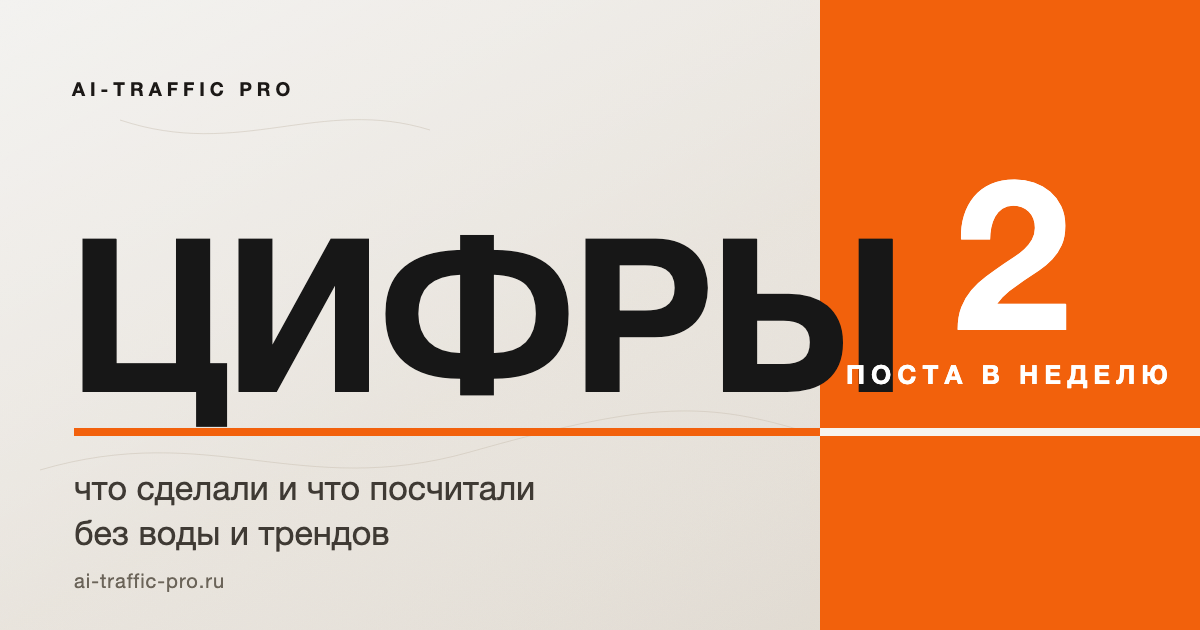
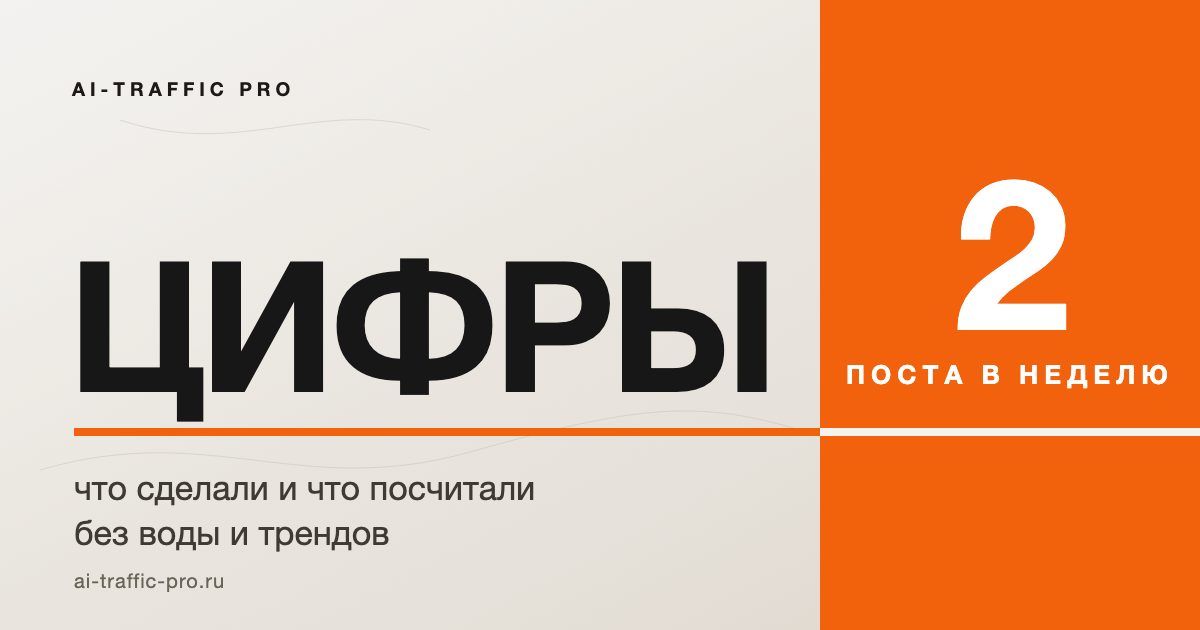
fix(covers): крупное слово не заходит на тераkотовый блок
Ширина считалась по числу букв (222px для пятибуквенного слова), а не по
фактической — «ЦИФРЫ» наезжали на оранжевую плашку.

- fit_word: кегль подбирается по измеренной ширине, правый край ≤ x=800
  при блоке с x=820; если не влезает — две строки, обе на бежевом поле
- строки описания и подпись в блоке тоже подгоняются по ширине
- cover.py --refit: пересборка всех <slug>-cover.svg с прежними текстами
- пересобраны все 11 обложек + intro; проверено пиксельно: тёмного в блоке 0
- правило записано в docs/design/covers.md

Changed region(s): [[0.0617, 0.3619, 0.7708, 0.6937]]

diff --git a/tools/publish/cover.py b/tools/publish/cover.py
@@ -16,11 +16,12 @@
 from __future__ import annotations
 
 import argparse
+import re
 import shutil
 import subprocess
 import sys
 from pathlib import Path
-from xml.sax.saxutils import escape
+from xml.sax.saxutils import escape, unescape
 
 ROOT = Path(__file__).resolve().parents[2]
 TEMPLATE = ROOT / "docs" / "design" / "cover-template.svg"
@@ -34,16 +35,115 @@ def size_for(text: str, *, base: int, step: int, minimum: int) -> int:
     return max(minimum, base - max(0, len(text) - 4) * step)
 
 
+# Границы полей обложки. Тераkотовый блок начинается на x=820, крупное слово
+# живёт на бежевом поле левее: правило от 20.11.2026 — текст на блок не заходит.
+FIELD_X = 820
+PAD_X = 68
+EDGE = 20
+MAX_TEXT_W = FIELD_X - EDGE - PAD_X
+WORD_BASELINE = 392
+WORD_TOP_MIN = 150
+TRACKING = -5
+
+# Чем мерим ширину. Chrome рисует Helvetica Neue; метрики Arial Bold близки,
+# плюс запас 4% — лучше чуть уменьшить кегль, чем наехать на блок.
+_MEASURE_FONTS = (
+    "/System/Library/Fonts/Supplemental/Arial Bold.ttf",
+    "/Library/Fonts/Arial Bold.ttf",
+    "/System/Library/Fonts/Supplemental/Arial.ttf",
+)
+
+
+def _metrics(size: int):
+    for path in _MEASURE_FONTS:
+        if Path(path).exists():
+            try:
+                from PIL import ImageFont
+
+                return ImageFont.truetype(path, size)
+            except Exception:
+                continue
+    return None
+
+
+def measure(text: str, size: int, tracking: int = TRACKING) -> int:
+    """Ширина строки в пикселях с учётом разрядки."""
+    if not text:
+        return 0
+    font = _metrics(size)
+    width = font.getlength(text) if font is not None else len(text) * size * 0.72
+    return round((width + tracking * (len(text) - 1)) * 1.04)
+
+
+def fit_word(word: str) -> tuple[list[str], int, int]:
+    """Кегль и разбивка крупного слова так, чтобы оно осталось на бежевом поле.
+
+    Сначала пробуем одну строку: на длинных словах кегль падает. Если и на
+    минимальном не влезает — режем на две строки, обе левее блока (правило
+    владельца: лучше две строки, чем слово поверх тераkотовой плашки).
+    Возвращает строки, кегль и базовую линию последней строки.
+    """
+    for size in range(240, 88, -2):
+        if measure(word, size) <= MAX_TEXT_W:
+            return [word], size, WORD_BASELINE
+
+    best: tuple[list[str], int] | None = None
+    for split in range(1, len(word)):
+        left, right = word[:split], word[split:]
+        for size in range(200, 56, -2):
+            if measure(left, size) <= MAX_TEXT_W and measure(right, size) <= MAX_TEXT_W:
+                if best is None or size > best[1]:
+                    best = ([left, right], size)
+                break
+
+    if best is None:
+        raise SystemExit(f"слово «{word}» не помещается на поле даже в две строки")
+
+    lines, size = best
+    y = WORD_BASELINE - round(size * 1.04)
+    if y < WORD_TOP_MIN:
+        raise SystemExit(f"слово «{word}»: две строки задевают вордмарк")
+    return lines, size, y
+
+
+def fit_line(text: str, *, base: int = 34, minimum: int = 22) -> int:
+    """Кегль строки описания: длинная строка уменьшается, а не лезет на блок."""
+    for size in range(base, minimum - 1, -1):
+        if measure(text, size, tracking=-1) <= MAX_TEXT_W:
+            return size
+    return minimum
+
+
 def build_svg(*, word: str, number: str, label: str, line1: str, line2: str) -> str:
     template = TEMPLATE.read_text(encoding="utf-8")
+
+    lines, word_size, word_y = fit_word(word)
+    if len(lines) == 1:
+        tsps = escape(lines[0])
+    else:
+        steps = "".join(
+            f'<tspan x="{PAD_X}" dy="{0 if index == 0 else "1.04em"}">{escape(line)}</tspan>'
+            for index, line in enumerate(lines)
+        )
+        tsps = steps
+
+    # Подпись в блоке тоже подгоняем: «ПОСТА В НЕДЕЛЮ» иначе вылезает за 380 px.
+    label_size = 26
+    while label_size > 16 and measure(label.upper(), label_size, tracking=6) > 340:
+        label_size -= 1
+
     values = {
-        "{{WORD}}": escape(word),
+        "{{WORD_TSPS}}": tsps,
         "{{NUMBER}}": escape(number),
         "{{LABEL}}": escape(label),
         "{{LINE1}}": escape(line1),
         "{{LINE2}}": escape(line2),
-        "{{WORD_SIZE}}": str(size_for(word, base=240, step=26, minimum=96)),
+        "{{WORD_SIZE}}": str(word_size),
+        "{{WORD_Y}}": str(word_y),
+        "{{LINE1_SIZE}}": str(fit_line(line1)),
+        "{{LINE2_SIZE}}": str(fit_line(line2)),
         "{{NUM_SIZE}}": str(size_for(number, base=210, step=30, minimum=96)),
+        "{{LABEL_SIZE}}": str(label_size),
     }
     for key, value in values.items():
         template = template.replace(key, value)
@@ -89,22 +189,89 @@ def dimensions(png_path: Path) -> tuple[int, int]:
     return width, height
 
 
+def extract_texts(svg: str) -> dict[str, str]:
+    """Достаёт тексты из уже готовой SVG: переверстать, не переписывая смысл.
+
+    Нужно для пересборки старых обложек после правки шаблона: тексты остаются
+    те же, меняются кегли и разбивка. Регулярки привязаны к цветам, а не к
+    координатам, — координаты как раз и меняются.
+    """
+    def one(pattern: str) -> str:
+        found = re.search(pattern, svg, re.S)
+        return unescape(found.group(1)) if found else ""
+
+    def many(pattern: str) -> list[str]:
+        return [unescape(match) for match in re.findall(pattern, svg, re.S)]
+
+    lines = many(r'fill="#3F3A34"[^>]*>([^<]*)</text>')
+    white = many(r'fill="#FFFFFF"[^>]*>([^<]*)</text>')
+    return {
+        "word": one(r'fill="#171717"[^>]*>([^<]*)</text>'),
+        "number": white[0] if white else "",
+        "label": white[1] if len(white) > 1 else "",
+        "line1": lines[0] if lines else "",
+        "line2": lines[1] if len(lines) > 1 else "",
+    }
+
+
+def refit_all(out_dir: Path, *, dry_run: bool = False) -> int:
+    """Пересобирает все `<slug>-cover.svg` в папке шаблоном с новой вёрсткой."""
+    files = sorted(out_dir.glob("*-cover.svg"))
+    if not files:
+        print(f"в {out_dir} нет обложек *-cover.svg", file=sys.stderr)
+        return 1
+
+    failures = 0
+    for svg_path in files:
+        texts = extract_texts(svg_path.read_text(encoding="utf-8"))
+        if not texts["word"]:
+            print(f"{svg_path.name}: не нашёл крупное слово", file=sys.stderr)
+            failures += 1
+            continue
+        try:
+            svg = build_svg(**texts)
+        except SystemExit as exc:
+            print(f"{svg_path.name}: {exc}", file=sys.stderr)
+            failures += 1
+            continue
+
+        lines, size, _ = fit_word(texts["word"])
+        head = "+".join(lines)
+        if dry_run:
+            print(f"{svg_path.name}: {head} {size}px, строк описания 2")
+            continue
+
+        png_path = svg_path.with_suffix(".png")
+        svg_path.write_text(svg, encoding="utf-8")
+        render(svg_path, png_path)
+        width, height = dimensions(png_path)
+        if (width, height) != (WIDTH, HEIGHT):
+            print(f"{png_path.name}: {width}x{height}", file=sys.stderr)
+            failures += 1
+            continue
+        print(f"{png_path.name}: {head} {size}px — готово")
+
+    return 1 if failures else 0
+
+
 def main(argv: list[str] | None = None) -> int:
     parser = argparse.ArgumentParser(
         description="Собрать обложку статьи 1200x630 (PNG) по общему шаблону.",
         epilog=(
             'пример: python3 tools/publish/cover.py --slug voronka-prodazh-kak-postroit '
             '--word ВОРОНКА --number 4 --label ЭТАПА --line1 "что считать воронкой" '
-            '--line2 "и где она рвётся" --dry-run'
+            '--line2 "и где она рвётся" --dry-run\n'
+            'пересобрать все обложки после правки шаблона: cover.py --refit'
         ),
     )
-    parser.add_argument("--slug", required=True, help="слаг статьи: <slug>-cover.svg/.png")
-    parser.add_argument("--word", required=True, help="крупное слово, 3-7 знаков")
-    parser.add_argument("--number", required=True, help="число или слово в цветном блоке")
-    parser.add_argument("--label", required=True, help="подпись под числом, прописными")
-    parser.add_argument("--line1", required=True, help="первая строка описания")
+    parser.add_argument("--slug", help="слаг статьи: <slug>-cover.svg/.png")
+    parser.add_argument("--word", help="крупное слово, 3-7 знаков")
+    parser.add_argument("--number", help="число или слово в цветном блоке")
+    parser.add_argument("--label", help="подпись под числом, прописными")
+    parser.add_argument("--line1", help="первая строка описания")
     parser.add_argument("--line2", default="", help="вторая строка описания (можно пустой)")
     parser.add_argument("--out-dir", default=str(PUBLIC), help="куда писать файлы")
+    parser.add_argument("--refit", action="store_true", help="пересобрать все <slug>-cover.svg")
     parser.add_argument("--dry-run", action="store_true", help="показать, что будет сделано")
     args = parser.parse_args(argv)
 
@@ -113,6 +280,17 @@ def main(argv: list[str] | None = None) -> int:
         return 1
 
     out_dir = Path(args.out_dir)
+    if args.refit:
+        return refit_all(out_dir, dry_run=args.dry_run)
+
+    missing = [
+        name
+        for name in ("slug", "word", "number", "label", "line1")
+        if not getattr(args, name)
+    ]
+    if missing:
+        parser.error("нужны --slug, --word, --number, --label, --line1 (или --refit)")
+
     svg_path = out_dir / f"{args.slug}-cover.svg"
     png_path = out_dir / f"{args.slug}-cover.png"
 
